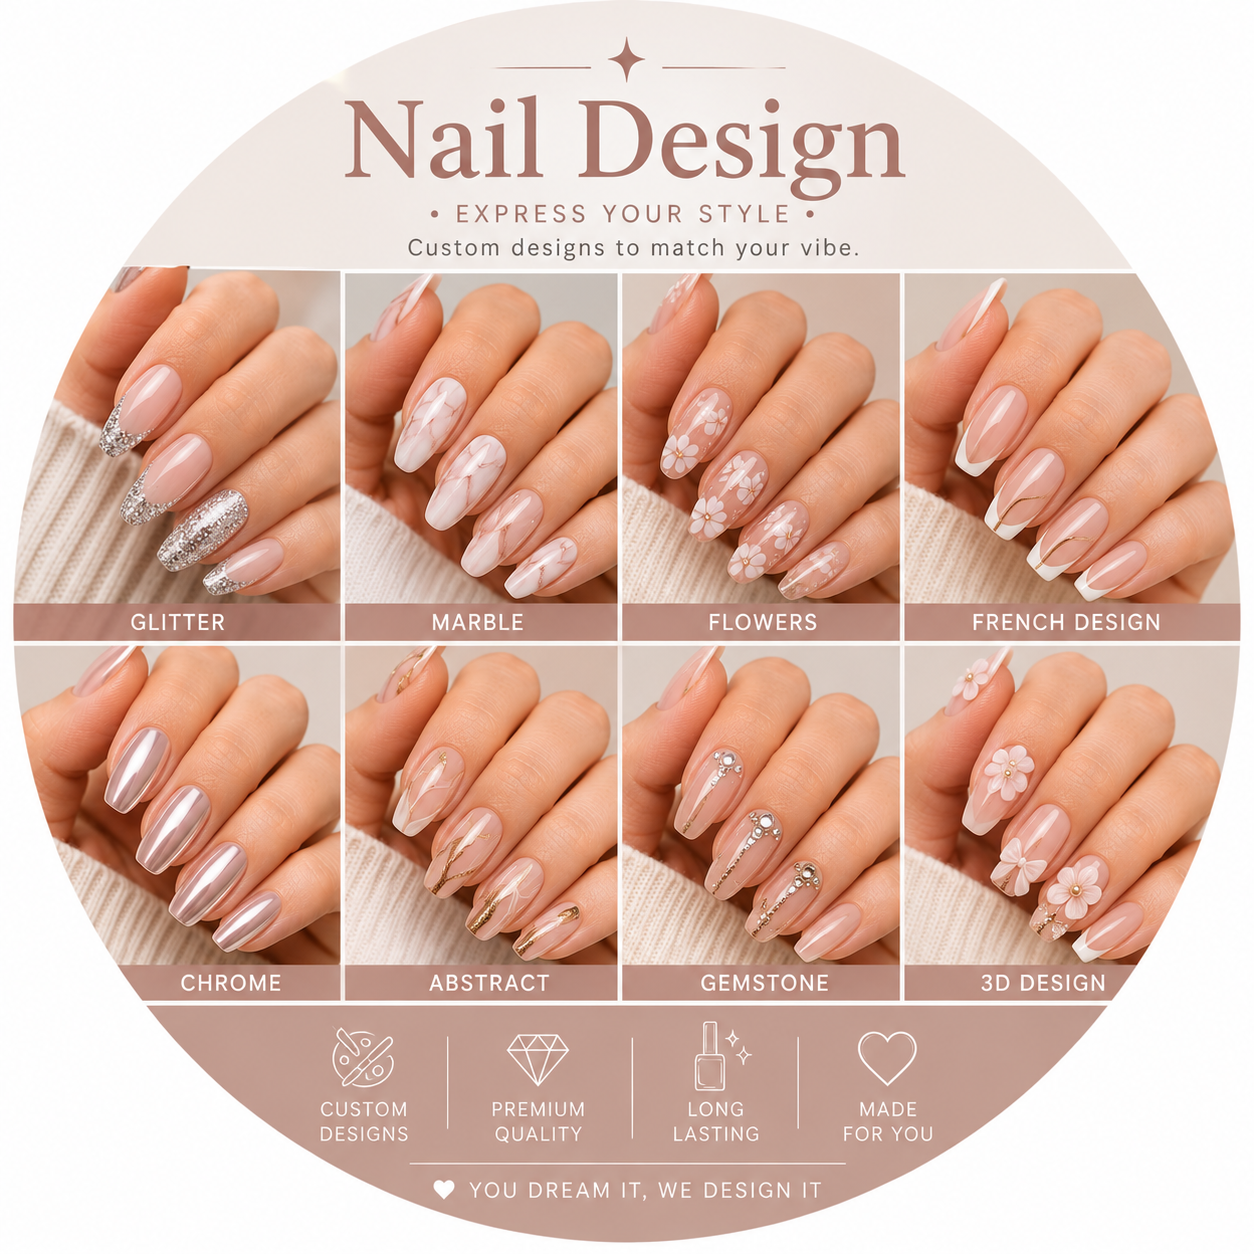
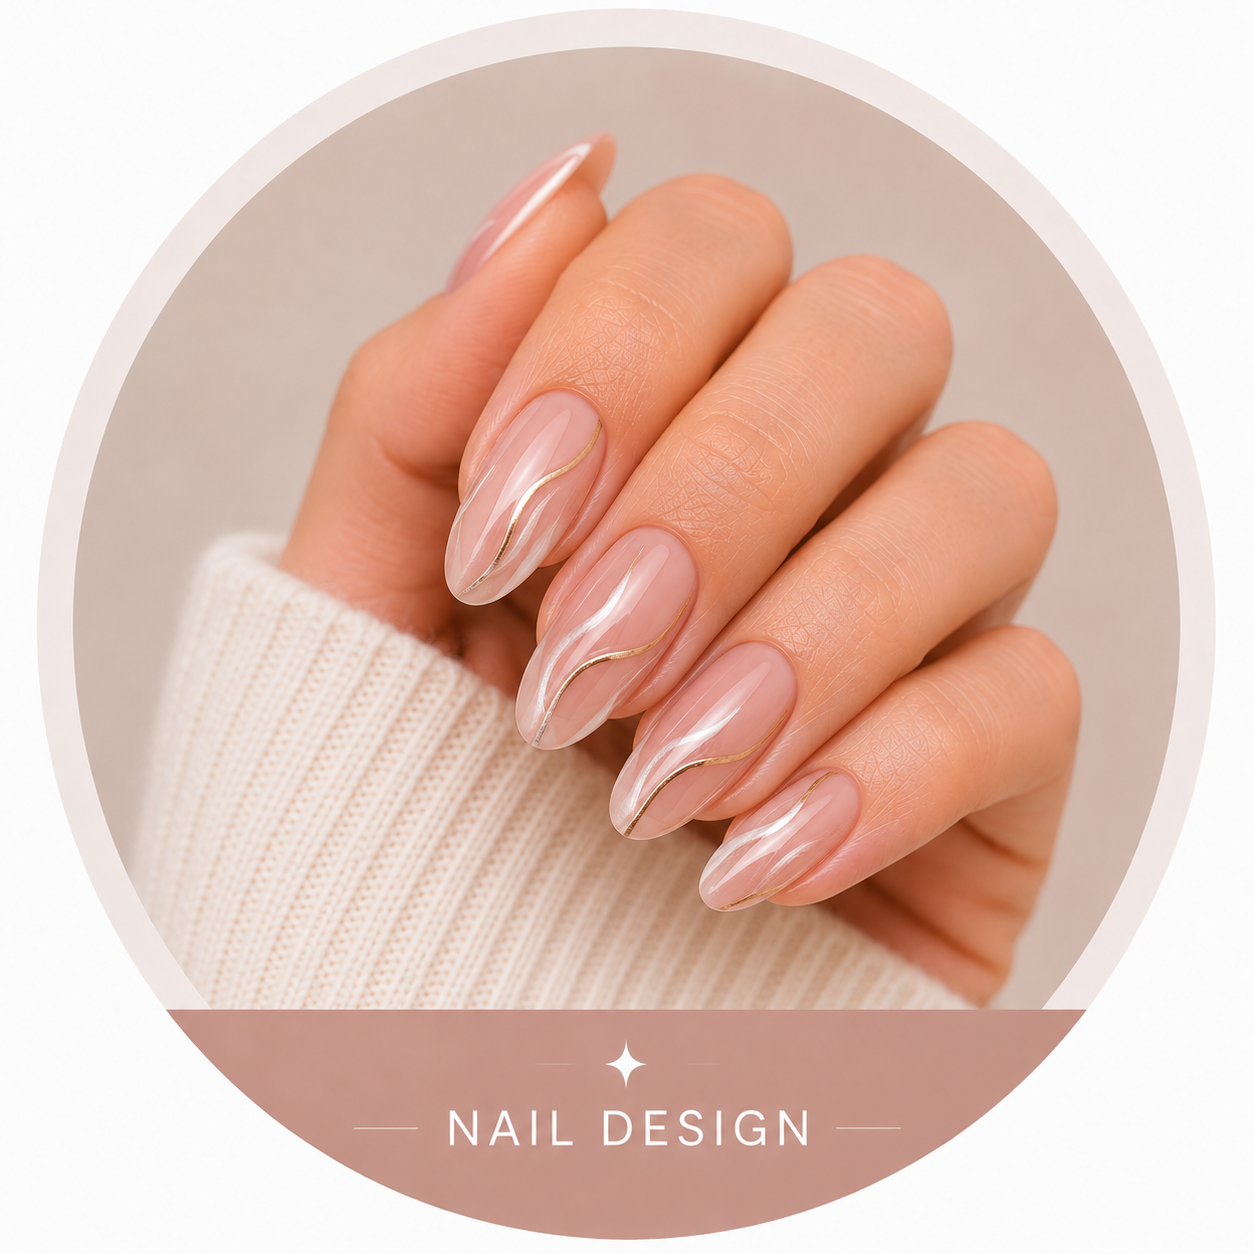
fix services

diff --git a/src/features/booking/data/serviceMenu.ts b/src/features/booking/data/serviceMenu.ts
@@ -88,7 +88,7 @@ export const serviceArabicCopyBySlug: Record<string, ServiceArabicCopy> = {
     description: "جلسة متكاملة لتنعيم اليدين وتجديد البشرة مع علاج بارافين مرطب.",
   },
   "massage-scrub-paraffin-hands": {
-    title: "مساج وتقشير وبارافين لليدين",
+    title: "سبا اليدين الكامل",
     description: "جلسة متكاملة لتنعيم اليدين وتجديد البشرة مع علاج بارافين مرطب.",
   },
   "nail-design": {
@@ -119,6 +119,10 @@ export const serviceArabicCopyBySlug: Record<string, ServiceArabicCopy> = {
     title: "روبر بيس مع كوفر أب",
     description: "تقوية للأظافر مع تغطية طبيعية متجانسة تمنحها مظهرًا أنيقًا ومرتبًا يدوم لفترة أطول.",
   },
+  "remove-rubber-cover-up": {
+    title: "إزالة الروبر مع كوفر أب",
+    description: "إزالة الروبر بعناية مع تغطية مرتبة للحصول على مظهر نظيف ومتجانس.",
+  },
   "rubber-gel-color": {
     title: "روبر بيس مع لون جل",
     description: "تقوية للأظافر بطبقة مرنة مع لون جل لامع يمنحها مظهرًا جذابًا وثباتًا طويل الأمد.",
@@ -136,8 +140,8 @@ export const serviceArabicCopyBySlug: Record<string, ServiceArabicCopy> = {
     description: "إزالة آمنة ولطيفة للجل أو الطلاء شبه الدائم مع الحفاظ على صحة الأظافر الطبيعية.",
   },
   "soak-off-classic-manicure-oil": {
-    title: "إزالة الجل مع مانيكير كلاسيكي وزيت",
-    description: "إزالة لطيفة للمنتج مع مانيكير كلاسيكي وزيت مغذٍ للأظافر.",
+    title: "إزالة الجل مع مانيكير روسي وزيت",
+    description: "إزالة لطيفة للمنتج مع مانيكير روسي وزيت مغذٍ للأظافر.",
   },
   "massage-scrub": {
     title: "مساج وتقشير وبارافين",
@@ -194,26 +198,19 @@ export function getServiceArabicCopy(serviceSlug: string): ServiceArabicCopy {
 }
 
 export const manicureServices: ServiceMenuItem[] = [
-  { name: "Classic Manicure", slug: "classic-manicure", imageSrc: "/Russian%20Manicure.png", price: "$25", description: "Detailed cuticle work and clean shaping for a polished natural nail finish.", duration: "60 min", serviceType: manicureType },
-  { name: "Pose", slug: "pose", imageSrc: "/Pose.png", price: "$10", description: "A neat nail application service finished with a clean salon look.", duration: "30 min", serviceType: manicureType },
-  { name: "Rubber", slug: "rubber", imageSrc: "/Rubber.png", price: "$20", description: "Strengthen natural nails with a flexible rubber base treatment.", duration: "60 min", serviceType: enhancementType },
+  { name: "Full Set Poly Gel", slug: "full-set-poly-gel", imageSrc: "/Full%20Set%20Builder%20Gel.png", price: "$45", description: "Full poly gel set for added shape, strength, and length.", duration: "2 hr 30 min", serviceType: enhancementType },
+  { name: "Full Set Fiber", slug: "full-set-fiber", imageSrc: "/Full%20Set%20Fiber.png", price: "$50", description: "Full fiber set designed for lightweight strength and a refined finish.", duration: "2 hr 30 min", serviceType: enhancementType },
+  { name: "Full Set Hard Gel", slug: "full-set-hard-gel", imageSrc: "/Full%20Set%20Builder%20Gel.png", price: "$45", description: "Full hard gel set built for strong structure and a clean finish.", duration: "2 hr 30 min", serviceType: enhancementType },
+  { name: "Fungal Nail Care & Treatment", slug: "fungal-nail-care-treatment", imageSrc: "/Fungal%20Nail%20Care%20%26%20Treatment.png", price: "$20", description: "Focused hand nail care treatment for damaged or problem nails.", duration: "30 min", serviceType: "Nail Treatment" },
   { name: "Hard Gel + Color", slug: "hard-gel-color", imageSrc: "/Hard%20Gel%20%2B%20Color.png", price: "$30", description: "Durable hard gel structure finished with your selected color.", duration: "1 hr 30 min", serviceType: enhancementType },
-  { name: "Rubber + Gel Color", slug: "rubber-gel-color", imageSrc: "/Rubber%20%2B%20Gel%20Color.png", price: "$25", description: "Strengthen natural nails with rubber base and finish with long-lasting gel color.", duration: "1 hr 30 min", serviceType: enhancementType },
+  { name: "Ultimate Hand Spa", slug: "massage-scrub-paraffin-hands", imageSrc: "/Massage%20%2B%20Scrub%20for%20Hands.png", price: "$25", description: "Hand exfoliation, massage, and warm paraffin hydration in one service.", duration: "45 min", serviceType: "Hand Spa" },
   { name: "Refill", slug: "refill", imageSrc: "/refill.png", price: "$25", description: "Refresh existing nail enhancement growth with balanced structure and finish.", duration: "1 hr 30 min", serviceType: "Nail Maintenance" },
   { name: "Refill Poly Gel", slug: "refill-poly-gel", imageSrc: "/refill.png", price: "$30", description: "Refresh existing poly gel growth with balanced structure and finish.", duration: "2 hr", serviceType: "Nail Maintenance" },
   { name: "Refill Hard Gel", slug: "refill-hard-gel", imageSrc: "/refill.png", price: "$30", description: "Refresh existing hard gel growth with balanced structure and finish.", duration: "2 hr", serviceType: "Nail Maintenance" },
-  { name: "Broken Tip Repair", slug: "broken-tip-repair", imageSrc: "/Broken%20Tip%20Repair.png", price: "$1.50", description: "Repair a damaged or broken nail tip with careful shaping and finish.", duration: "10 min", serviceType: "Nail Repair" },
-  { name: "Soak Off + Classic Manicure + Oil", slug: "soak-off-classic-manicure-oil", imageSrc: "/Soak%20Off.png", price: "$15", description: "Gentle product removal finished with classic manicure care and nourishing oil.", duration: "30 min", serviceType: "Nail Removal" },
-  { name: "French", slug: "french", imageSrc: "/French.png", price: "$5", description: "Classic French tips for a clean, elegant nail finish.", duration: "20 min", serviceType: "Nail Add-on" },
-  { name: "Ombré", slug: "ombre", imageSrc: "/Ombr%C3%A9.png", price: "$5", description: "Soft blended color fade for a polished ombré effect.", duration: "20 min", serviceType: addOnType },
-  { name: "Chrome", slug: "chrome", imageSrc: "/Chrome.png", price: "$5", description: "Reflective chrome finish added over your selected nail service.", duration: "10 min", serviceType: addOnType },
-  { name: "Full Set Poly Gel", slug: "full-set-poly-gel", imageSrc: "/Full%20Set%20Builder%20Gel.png", price: "$45", description: "Full poly gel set for added shape, strength, and length.", duration: "2 hr 30 min", serviceType: enhancementType },
-  { name: "Full Set Hard Gel", slug: "full-set-hard-gel", imageSrc: "/Full%20Set%20Builder%20Gel.png", price: "$45", description: "Full hard gel set built for strong structure and a clean finish.", duration: "2 hr 30 min", serviceType: enhancementType },
-  { name: "Full Set Fiber", slug: "full-set-fiber", imageSrc: "/Full%20Set%20Fiber.png", price: "$50", description: "Full fiber set designed for lightweight strength and a refined finish.", duration: "2 hr 30 min", serviceType: enhancementType },
-  { name: "Full Set Gel Extension", slug: "full-set-gel-extension", imageSrc: "/Full%20Set%20Gel%20Extension.png", price: "$35", description: "Gel extensions shaped and finished for an elegant full set.", duration: "2 hr", serviceType: "Nail Extension" },
-  { name: "Massage + Scrub + Paraffin Hand Therapy", slug: "massage-scrub-paraffin-hands", imageSrc: "/Massage%20%2B%20Scrub%20for%20Hands.png", price: "$25", description: "Hand exfoliation, massage, and warm paraffin hydration in one service.", duration: "45 min", serviceType: "Hand Spa" },
-  { name: "Nail Design", slug: "nail-design", imageSrc: "/Nail%20Design.png", price: "From $2", description: "Custom nail detail added to personalize your manicure.", duration: "10 min", serviceType: "Nail Art" },
-  { name: "Fungal Nail Care & Treatment", slug: "fungal-nail-care-treatment", imageSrc: "/Fungal%20Nail%20Care%20%26%20Treatment.png", price: "$20", description: "Focused hand nail care treatment for damaged or problem nails.", duration: "30 min", serviceType: "Nail Treatment" },
+  { name: "Rubber", slug: "rubber", imageSrc: "/Rubber.png", price: "$20", description: "Strengthen natural nails with a flexible rubber base treatment.", duration: "60 min", serviceType: enhancementType },
+  { name: "Remove Rubber + Cover Up", slug: "remove-rubber-cover-up", imageSrc: "/Rubber%20%2B%20Cover%20Up.png", price: "$25", description: "Remove rubber base and finish with a smooth cover up.", duration: "60 min", serviceType: "Nail Removal" },
+  { name: "Rubber + Gel Color", slug: "rubber-gel-color", imageSrc: "/Rubber%20%2B%20Gel%20Color.png", price: "$25", description: "Strengthen natural nails with rubber base and finish with long-lasting gel color.", duration: "1 hr 30 min", serviceType: enhancementType },
+  { name: "Soak Off + Russian Manicure + Oil", slug: "soak-off-classic-manicure-oil", imageSrc: "/Soak%20Off.png", price: "$15", description: "Gentle product removal finished with Russian manicure care and nourishing oil.", duration: "30 min", serviceType: "Nail Removal" },
 ];
 
 export const pedicureServices: ServiceMenuItem[] = [
@@ -229,7 +226,7 @@ export const pedicureServices: ServiceMenuItem[] = [
 const slugAliases: Record<string, string> = {
   "russian-manicure": "classic-manicure",
   "full-set-builder-gel": "full-set-poly-gel",
-  "rubber-cover-up": "rubber",
+  "rubber-cover-up": "remove-rubber-cover-up",
   "soak-off": "soak-off-classic-manicure-oil",
   "massage-scrub-for-hands": "massage-scrub-paraffin-hands",
   "paraffin-hand-therapy": "massage-scrub-paraffin-hands",
@@ -335,7 +332,7 @@ const addOnOptions: Record<string, ServiceAddOnOption> = {
     serviceType: addOnType,
   },
   "massage-scrub-paraffin-hands": {
-    name: "Massage + Scrub + Paraffin",
+    name: "Ultimate Hand Spa",
     slug: "massage-scrub-paraffin-hands",
     imageSrc: "/Massage%20%2B%20Scrub%20for%20Hands.png",
     price: "$25",
@@ -407,6 +404,7 @@ const manicureAddOnsByService: Record<string, string[]> = {
 
 const standaloneServiceSlugs = new Set([
   "fungal-nail-care-treatment",
+  "remove-rubber-cover-up",
   "soak-off-classic-manicure-oil",
   "massage-scrub-paraffin-hands",
   "pedicure-fungal-nail-care-treatment",
@@ -478,6 +476,11 @@ export const serviceGroups = {
 } as const;
 
 export type ServiceGroupId = keyof typeof serviceGroups;
+
+export function isPrimaryServiceSlug(groupId: ServiceGroupId, serviceSlug: string) {
+  const canonicalSlug = getCanonicalServiceSlug(serviceSlug);
+  return serviceGroups[groupId].some((service) => service.slug === canonicalSlug);
+}
 
 export function getServiceSlug(name: string) {
   return name

diff --git a/src/features/booking/data/supabaseBooking.ts b/src/features/booking/data/supabaseBooking.ts
@@ -3,6 +3,7 @@ import {
   getServiceBySlugFromList,
   getServiceImage,
   getServiceSlug,
+  isPrimaryServiceSlug,
   normalizeServiceMenuItem,
   type ServiceGroupId,
   type ServiceMenuItem,
@@ -93,6 +94,7 @@ async function loadActiveServices(groupId: ServiceGroupId) {
     .filter((service) => belongsToGroup(service, groupId))
     .map(mapService)
     .filter((service): service is ServiceMenuItem => Boolean(service))
+    .filter((service) => isPrimaryServiceSlug(groupId, service.slug))
     .filter((service, index, list) => list.findIndex((item) => item.slug === service.slug) === index);
 }
 